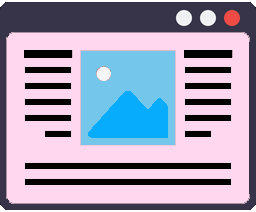
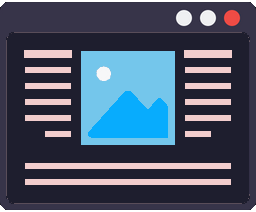
Update!

diff --git a/themestyle.css b/themestyle.css
@@ -10,22 +10,27 @@ body{
   margin: auto;
   max-width: 50rem;
   margin-top: 2em;
+  margin-left: 1rem;
+  margin-right: 1rem;
   padding: 3em;
   padding-top: 1em;
   background-color: #00000057;
-  border: 4px solid;
+  /* border: 4px solid; */
   left: 50%;
+  box-shadow: 0 4px 8px 0 rgba(0, 0, 0, 0.2), 0 6px 20px 0 rgba(0, 0, 0, 0.19);
 }
 
 #headDivTitle{
   font-size: 3.5rem;
   font-weight: 900;
   font-family: 'Lobster', cursive;
-  color: #275086;
+  color: #d65d0e;
+  text-shadow: 2px 2px rgba(0, 0, 0, 0.815);
 }
 
 #headFluff{
-  color: #1d9bf0;
+  color: #cc241d;
+  text-shadow: 2px 2px rgba(0, 0, 0, 0.418);
 }
 
 
@@ -36,7 +41,7 @@ body{
 }
 
 .darkMode{
-  background-color: #0c1218;
+  background-color: #15202b;
   color: antiquewhite;
   transition: 0.3s;
   border-color: antiquewhite;
@@ -50,8 +55,8 @@ body{
 }
 
 .redMode{
-  background-color: #ffd7ef;
-  color: #111111;
+  background-color: #1e1e2e;
+  color: #f2cdcd;
   transition: 0.3s;
 }
 
@@ -162,20 +167,20 @@ body{
   font-weight: 600;
 }
 #purpleTheme:hover{
-  background-color: rgb(0, 0, 0);
+  background-color: #131414;
   cursor: pointer;
 }
 
 /* red button */
 #redTheme{
-  background-color: #ffd5ee;
-  color: black;
-  border: solid #15a7fa;
+  background-color: #1e1e2e;
+  color: #f2cdcd;
+  border: solid #cba6f7;
   padding: 0.5rem 1rem;
   font-weight: 600;
 }
 #redTheme:hover{
-  background-color: #cca0ba;
+  background-color: #0f0f18;
   cursor: pointer;
 }
 
@@ -245,7 +250,7 @@ body{
 
 /* dark mode */
 #linkTwo{
-  background-color: rgb(24, 24, 24);
+  background-color: #15202b;
   color: antiquewhite;
   border: solid #468487;
   padding: 12px 16px;
@@ -273,15 +278,15 @@ body{
 
 /* red mode */
 #linkFour{
-  background-color: #ffd5ee;
-  color: black;
-  border: solid #15a7fa;
+  background-color: #1e1e2e;
+  color: #f2cdcd;
+  border: solid #caa5f6;
   padding: 12px 16px;
   text-decoration: none;
   display: block;
 }
 #linkFour:hover{
-  background-color: #cf99ba;
+  background-color: #11111a;
   cursor: pointer;
 }
 
@@ -313,12 +318,13 @@ body{
   /* margin-top: 0.5rem; */
   padding: 20px;
   padding-top: 10px;
-  border-radius: 4px;
-  background-color: #0000001e;
+  /* border-radius: 4px; */
+  background-color: #00000042;
   max-width: 12rem;
   min-width: 8rem;
   display: inline-flex;
-  border: solid 3px;
+  /* border: solid 3px; */
   margin: 0.5rem;
+  box-shadow: 0 4px 8px 0 rgba(0, 0, 0, 0.2), 0 6px 20px 0 rgba(0, 0, 0, 0.19);
 }
 

diff --git a/themescript.js b/themescript.js
@@ -37,8 +37,8 @@ let themeTag = document.body.classList
 
 lightTheme.addEventListener('click', ()=>{
     themeTag.add('lightMode')
-    document.getElementById("headDivTitle").style.color = '#275086';
-    document.getElementById("headFluff").style.color = "#1d9bf0";
+    document.getElementById("headDivTitle").style.color = '#d65d0e';
+    document.getElementById("headFluff").style.color = "#cc241d";
 
     themeTag.remove('darkMode')
     themeTag.remove('purpleMode')
@@ -67,8 +67,8 @@ purpleTheme.addEventListener('click', ()=>{
 
 redTheme.addEventListener('click', ()=>{
    themeTag.add('redMode')
-   document.getElementById("headDivTitle").style.color = "#74c6eb";
-   document.getElementById("headFluff").style.color = '#08acfd';
+   document.getElementById("headDivTitle").style.color = "#cba6f7";
+   document.getElementById("headFluff").style.color = '#89dceb';
 
    themeTag.remove('lightMode')
    themeTag.remove('darkMode')
@@ -90,8 +90,8 @@ const redDrop = document.getElementById('linkFour')
 
 lightDrop.addEventListener('click', ()=>{
    themeTag.add('lightMode')
-   document.getElementById("headDivTitle").style.color = '#275086';
-   document.getElementById("headFluff").style.color = "#1d9bf0";
+   document.getElementById("headDivTitle").style.color = '#d65d0e';
+   document.getElementById("headFluff").style.color = "#cc241d";
 
    themeTag.remove('darkMode')
    themeTag.remove('purpleMode')
@@ -121,8 +121,8 @@ purpleDrop.addEventListener('click', ()=>{
 
 redDrop.addEventListener('click', ()=>{
    themeTag.add('redMode')
-   document.getElementById("headDivTitle").style.color = "#74c6eb";
-   document.getElementById("headFluff").style.color = '#08acfd';
+   document.getElementById("headDivTitle").style.color = "#cba6f7";
+   document.getElementById("headFluff").style.color = '#89dceb';
 
    themeTag.remove('lightMode')
    themeTag.remove('darkMode')

diff --git a/theme.html b/theme.html
@@ -29,8 +29,8 @@
     <div class="dropdownContent">
       <a id="linkOne">Light Theme</a>
       <a id="linkTwo">Dark Theme</a>
-      <a id="linkThree">Material Dark</a>
-      <a id="linkFour">Summer Light</a>
+      <a id="linkThree">Gruvbox</a>
+      <a id="linkFour">Catppuccin</a>
     </div>
   </div>
 
@@ -46,8 +46,8 @@
   <div class="gridContainer">
     <div class="gridItem"><img class="gridPics" src="light.png" alt="light pic"><button id="lightTheme">Light Theme</button></div>
     <div class="gridItem"><img class="gridPics" src="dark.png" alt="Dark pic"><button id="darkTheme">Dark Theme</button></div>
-    <div class="gridItem"><img class="gridPics" src="purple.png" alt="Purple pic"><button id="purpleTheme">Material Dark</button></div>  
-    <div class="gridItem"><img class="gridPics" src="red.png" alt="Red pic"><button id="redTheme">Summer Light</button></div> 
+    <div class="gridItem"><img class="gridPics" src="purple.png" alt="Purple pic"><button id="purpleTheme">Gruvbox</button></div>  
+    <div class="gridItem"><img class="gridPics" src="red.png" alt="Red pic"><button id="redTheme">Catppuccin</button></div> 
   </div>
 
 <button id="closeModalBtn">Close</button>
